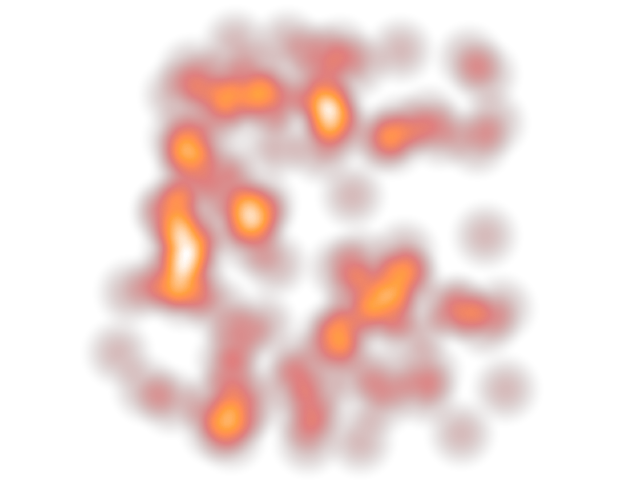
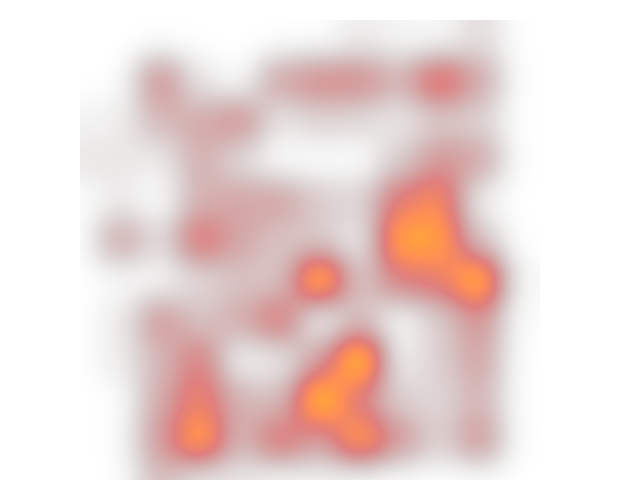
Simulation

diff --git a/heatmap/heatmap_generator.py b/heatmap/heatmap_generator.py
@@ -1,0 +1,98 @@
+import matplotlib.pyplot as plt
+import numpy as np
+import math
+import json
+
+# function to read json file and return x and y coordinates
+def get_coordinates(json_file):
+    with open(json_file) as f:
+        data = json.load(f)
+    x = []
+    y = []
+    for i in data:
+        x.append(i['x'])
+        y.append(i['y'])
+    return x, y
+
+#FUNCTION TO CALCULATE INTENSITY WITH QUARTIC KERNEL
+def kde_quartic(d,h):
+    dn=d/h
+    P=(1)*(1-dn**2)**2
+    return P
+
+# function to generate meshgrid
+def meshgrid(x, y, grid_size, h):
+    x_min = min(x)
+    x_max = max(x)
+    y_min = min(y)
+    y_max = max(y)
+    x_grid = np.arange(x_min - h, x_max + h, grid_size)
+    y_grid = np.arange(y_min - h, y_max + h, grid_size)
+    x_mesh, y_mesh = np.meshgrid(x_grid, y_grid)
+    xc = x_mesh + (grid_size / 2)
+    yc = y_mesh + (grid_size / 2)
+    return xc, yc, x_mesh, y_mesh
+
+# function to process data
+def process_data(x, y, xc, yc, h):
+    intensity_list = []
+    for j in range(len(xc)):
+        intensity_row = []
+        for k in range(len(xc[0])):
+            kde_value_list = []
+            for i in range(len(x)):
+                # CALCULATE DISTANCE
+                d = math.sqrt((xc[j][k] - x[i]) ** 2 + (yc[j][k] - y[i]) ** 2)
+                if d <= h:
+                    p = kde_quartic(d, h)
+                else:
+                    p = 0
+                kde_value_list.append(p)
+            # SUM ALL INTENSITY VALUE
+            p_total = sum(kde_value_list)
+            intensity_row.append(p_total)
+        intensity_list.append(intensity_row)
+    intensity = np.array(intensity_list)
+    return intensity
+
+# function to generate alpha clip
+def alpha_clip(intensity):
+    alpha_clip = (intensity - intensity.min()) / (intensity.max() - intensity.min())
+    return alpha_clip
+
+# function to output heatmap
+def heatmap_output(name, x_mesh, y_mesh, intensity, alpha_clip):
+    fig, ax = plt.subplots()
+    # smooth the heatmap
+    ax.imshow(intensity, cmap='gist_heat', interpolation='gaussian', alpha=alpha_clip)
+    # set initial coordinates of the heatmap as 0,0 at bottom left
+    ax.set_xlim(0, len(x_mesh))
+    ax.set_ylim(0, len(y_mesh))
+
+    #ax.pcolormesh(x_mesh,y_mesh,intensity, alpha=intensity_norm, cmap='gist_heat')
+    ax.axis('off')
+    ax.set_aspect('equal')
+    # remove white border
+    fig.subplots_adjust(left=0, right=1, bottom=0, top=1)
+    fig.savefig(name, transparent = True)
+
+# function to create heatmap
+def create_heatmap(name, json_file, grid_size=1, h=10):
+    x, y = get_coordinates(json_file)
+    xc, yc, x_mesh, y_mesh = meshgrid(x, y, grid_size, h)
+    intensity = process_data(x, y, xc, yc, h)
+    alpha = alpha_clip(intensity)
+    heatmap_output(name, x_mesh, y_mesh, intensity, alpha)
+
+# function to create heatmap with random x and y coordinates
+def create_heatmap_random(name, x, y, grid_size=10, h=10):
+    xc, yc, x_mesh, y_mesh = meshgrid(x, y, grid_size, h)
+    intensity = process_data(x, y, xc, yc, h)
+    alpha = alpha_clip(intensity)
+    heatmap_output(name, x_mesh, y_mesh, intensity, alpha)
+
+# example of using the function to create heatmap randomly
+#x = [30,26,23,65,52,45,55,75]
+#y = [5,20,35,30,30,55,75,100]
+#create_heatmap_random("random",x, y)
+

diff --git a/animation/togif.py b/animation/togif.py
@@ -1,0 +1,23 @@
+# create a gif from a list of images
+import glob
+import contextlib
+from PIL import Image
+
+# filepaths
+fp_in = "output/frame*.png"
+fp_out = "animation.gif"
+
+# use exit stack to automatically close opened images
+with contextlib.ExitStack() as stack:
+
+    # lazily load images
+    imgs = (stack.enter_context(Image.open(f))
+            for f in sorted(glob.glob(fp_in)))
+
+    # extract  first image from iterator
+    img = next(imgs)
+
+    # https://pillow.readthedocs.io/en/stable/handbook/image-file-formats.html#gif
+    img.save(fp=fp_out, format='GIF', append_images=imgs,
+             save_all=True, duration=200, loop=0)
+

diff --git a/simulation.py b/simulation.py
@@ -1,0 +1,16 @@
+import motion.motion as m
+import heatmap.heatmap_generator as h
+import numpy as np
+import animation.images as img
+
+# create random values for x and y
+x = np.random.randint(0, 100, 100)
+y = np.random.randint(0, 100, 100)
+
+
+for i in range(120):
+    h.create_heatmap_random("output/frame" + str(i) + '.png', x, y)
+    x_change = np.random.randint(-5, 5, 100)
+    y_change = np.random.randint(-5, 5, 100)
+    x, y = m.change_coordinates(x, y, x_change, y_change)
+    img.overlap_images("background.png", "output/frame" + str(i) + '.png', "output/frame" + str(i) + '.png')

diff --git a/animation/images.py b/animation/images.py
@@ -1,0 +1,11 @@
+
+from PIL import Image
+ 
+
+# create a function to overlap images
+def overlap_images(background, overlay, output):
+    img1 = Image.open(background)
+    img2 = Image.open(overlay)
+    img1.paste(img2, mask = img2)
+    img2 = img1.crop((80, 22, 540, 480))
+    img2.save(output)

diff --git a/crop.py b/crop.py
@@ -1,0 +1,15 @@
+from PIL import Image as img
+import matplotlib.pyplot as plt
+
+#left, bottom, right, top
+#left = 80
+#bottom = 480
+#right = 540
+#top = 22
+
+# crop background.png image
+im = img.open("output/frame0.png")
+im1 = im.crop((80, 22, 540, 480))
+im1.save("test.png")
+
+

diff --git a/motion/motion.py b/motion/motion.py
@@ -1,0 +1,8 @@
+import numpy as np
+
+# function to change coordinates of x and y a speceific amount
+def change_coordinates(x, y, x_change, y_change):
+    x = x + x_change
+    y = y + y_change
+    return x, y
+
